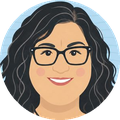
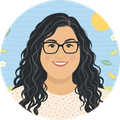
תפריט הצד: אסיסטנט כמו הסננים, אייקונים באותו גודל, הדיוקן קטן יותר בעיגול; צבעי העננים הוחלפו (צפון ליים, מרכז תכלת, ירושלים מרווה, דרום צהוב רך)
Claude-Session: https://claude.ai/code/session_013j9WWs2tPsu2xWpo5stbWr

diff --git a/app/globals.css b/app/globals.css
@@ -65,7 +65,8 @@ input[type=search]{min-width:0;flex:1 1 180px;max-width:320px}
 @media (min-width:1200px){.clouds{grid-template-columns:1.45fr 1fr 1.1fr 1fr}}
 .cloud{position:relative;display:flex;flex-wrap:wrap;gap:5px;align-content:flex-start;padding:12px 14px 14px;border-radius:30px 44px 26px 40px/34px 26px 42px 28px;box-shadow:var(--shadow);overflow:hidden}
 .cloud::before{content:"";position:absolute;inset:0;background-image:radial-gradient(rgba(255,255,255,.75) 1.3px,transparent 1.6px);background-size:10px 10px;pointer-events:none}
-.cloud:nth-child(1){background:var(--mist)} .cloud:nth-child(2){background:var(--sun)} .cloud:nth-child(3){background:var(--lime)} .cloud:nth-child(4){background:var(--sage)}
+/* Kinneret, 30.10.2026: north green (lime), centre light blue (the sea), Jerusalem sage, south soft yellow; the region tag ring (.cat.zN) follows */
+.cloud:nth-child(1){background:var(--lime)} .cloud:nth-child(2){background:var(--mist)} .cloud:nth-child(3){background:var(--sage)} .cloud:nth-child(4){background:var(--sun)}
 .cloud>*{position:relative}
 .cloud .chip{background:var(--sheet)}
 .cloud .chip[aria-pressed="true"]{background:var(--ink);color:var(--sheet);box-shadow:0 0 0 2px var(--sun-deep)}
@@ -109,11 +110,9 @@ a.chip.home{display:inline-block;text-decoration:none;line-height:1.3;white-spac
 .main .content{grid-column:2;grid-row:1/span 2}
 /* the menu panel under the filters (Kinneret, 30.10.2026): same paper sheet, plain links one under the other */
 .side-menu{margin-top:-6px;background:var(--sheet);border-radius:18px 8px 22px 10px/10px 22px 8px 18px;box-shadow:var(--shadow);padding:6px 18px;display:flex;flex-direction:column}
-.side-menu a,.side-menu .soon{display:flex;align-items:center;gap:10px;padding:8px 0;font-weight:400;font-size:1.05rem;color:var(--ink);text-decoration:none;border-bottom:1px solid rgb(34 51 59/.15)}
-.side-menu .ic{width:26px;height:26px;flex:none;object-fit:contain}
-.side-menu .ic.acorn{height:30px;width:22px;transform:rotate(-14deg)}
-.side-menu .ic.juice{width:30px}
-.side-menu .ic.phone{width:34px}
+.side-menu a,.side-menu .soon{display:flex;align-items:center;gap:10px;padding:8px 0;font-weight:600;font-size:.92rem;color:var(--ink);text-decoration:none;border-bottom:1px solid rgb(34 51 59/.15)}
+.side-menu .ic{width:24px;height:24px;flex:none;object-fit:contain}
+.side-menu .ic.acorn{transform:rotate(-14deg)}
 .side-menu a:last-child,.side-menu .soon:last-child{border-bottom:0}
 .side-menu a:hover{color:var(--teal)}
 .side-menu .soon{color:var(--muted);cursor:default}
@@ -175,7 +174,7 @@ a.chip.home{display:inline-block;text-decoration:none;line-height:1.3;white-spac
 .cat{font-size:.78rem;background:var(--lime);color:var(--ink);border-radius:999px;padding:1px 9px}
 /* the region tag keeps its outline (Kinneret): a 3px ring in the cloud colour itself (option ב, 27.10) */
 .cat.zone{font-weight:700;background:var(--sheet);box-shadow:inset 0 0 0 3px var(--zc)}
-.cat.z0{--zc:var(--mist)} .cat.z1{--zc:var(--sun)} .cat.z2{--zc:var(--lime)} .cat.z3{--zc:var(--sage)}
+.cat.z0{--zc:var(--lime)} .cat.z1{--zc:var(--mist)} .cat.z2{--zc:var(--sage)} .cat.z3{--zc:var(--sun)}
 .note{margin:0;font-size:.86rem;font-weight:600;color:var(--ink);background:var(--sun);border-radius:3px 12px 4px 10px;padding:6px 12px;box-shadow:var(--shadow);transform:rotate(-.6deg)}
 .foot{display:flex;justify-content:space-between;align-items:center;gap:8px;margin-top:auto}
 /* share: a light-blue paper blob with the share icon, the label in grey beside it */

diff --git a/components/SideMenu.tsx b/components/SideMenu.tsx
@@ -1,18 +1,13 @@
-import { Suez_One } from 'next/font/google';
 import type { Texts } from '@/lib/texts';
 import { ACORN_BARE } from './art';
 
-// Kinneret, 30.10.2026: the menu in Suez One, not bold, with a small icon on the right of each item
-const menuFont = Suez_One({ subsets: ['hebrew', 'latin'], weight: '400', display: 'swap' });
-
-// an old-style telephone handset, ink, for "ליצור קשר"
-
+// Kinneret, 30.10.2026 10:14: Assistant like the filter chips (Suez One looked too heavy), every icon the same small size on the right
 // The small menu under the filter panel (Kinneret, 30.10.2026): looks like a menu, not like filter chips.
 // "אודות" lives here instead of beside the recommend button; the suggest and report links open the popup forms (Forms.tsx);
 // "ליצור קשר" is shown but not active until its form exists (thread "בניית טופס יצירת קשר"). The phone is Kinneret's own picture, recoloured to the palette.
 export default function SideMenu({ texts }: { texts: Texts }) {
   return (
-    <nav className={'side-menu ' + menuFont.className} aria-label="תפריט">
+    <nav className="side-menu" aria-label="תפריט">
       <a href="/about"><img className="ic" src="/art/menu-kinneret.png" alt="" />{texts['about.link']}</a>
       <a href="#suggest"><svg className="ic acorn" viewBox="10 3 44 61" aria-hidden="true" dangerouslySetInnerHTML={{ __html: ACORN_BARE }} />להמליץ על פנינה</a>
       <a href="#report"><img className="ic juice" src="/art/menu-juice.png" alt="" />לדווח על טעות</a>
